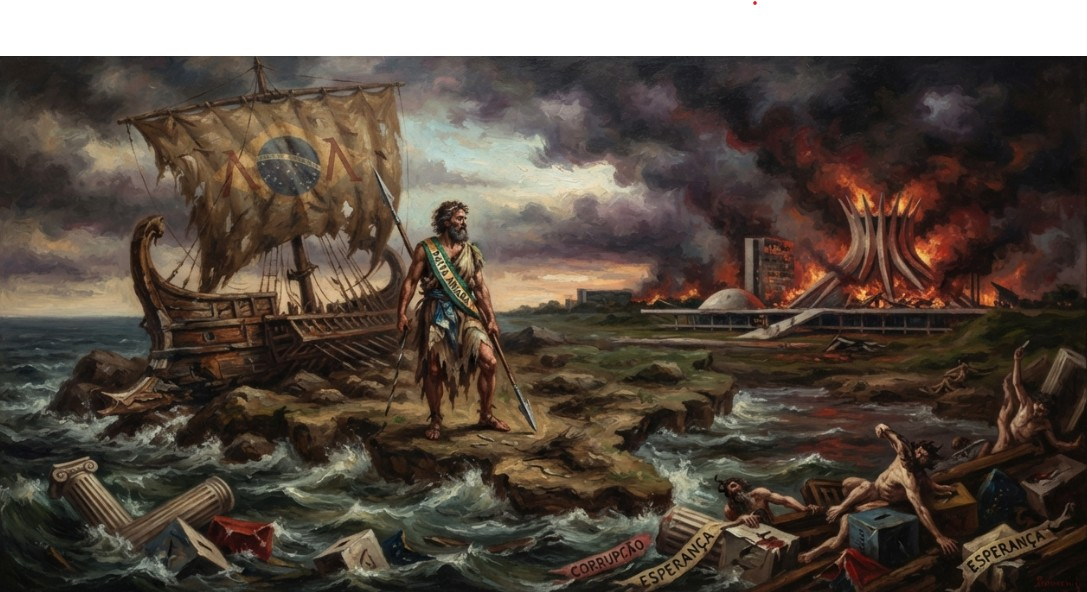
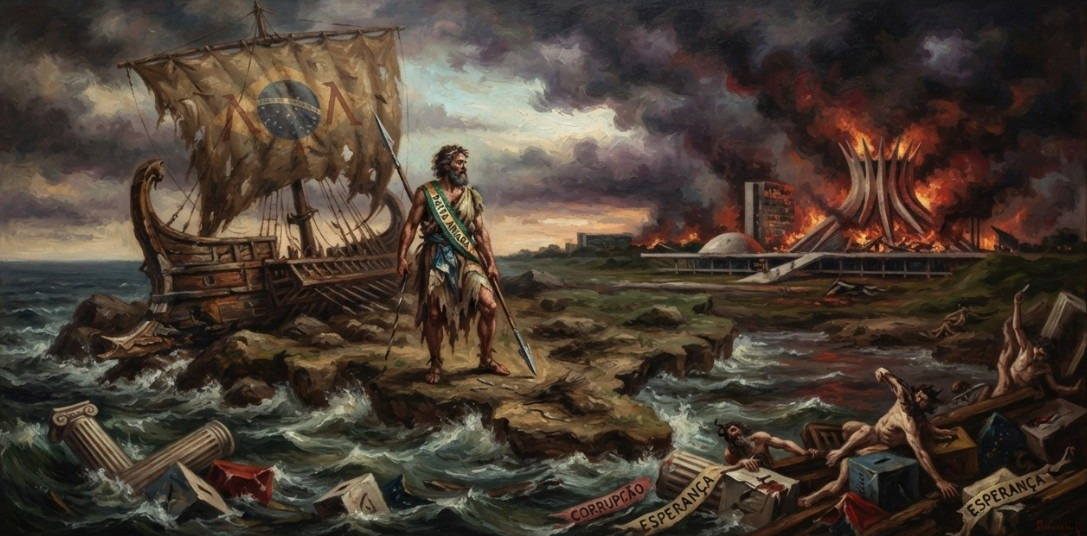
Add files via upload

diff --git a/generate_textos.py b/generate_textos.py
@@ -226,9 +226,10 @@ def gerar_pagina(item: dict) -> str:
     data_fmt = formatar_data(item["data"])
     url_pagina = f"{SITE_URL}/textos/{item['id']}.html"
 
-    imagem_item = item.get("imagem")  # caminho relativo opcional, ex: "/textos/img/arquivo.jpg"
+    imagem_item = item.get("imagem")  # caminho relativo opcional, ex: "/odisseia.jpg"
+    imagem_card_item = item.get("imagem_card")  # versão 1200x630 opcional para preview social
     if imagem_item:
-        imagem_card = f"{SITE_URL}{imagem_item}"
+        imagem_card = f"{SITE_URL}{imagem_card_item}" if imagem_card_item else f"{SITE_URL}{imagem_item}"
         alt_esc = html.escape(item.get("imagem_alt", item["titulo"]))
         imagem_html = f'    <img class="micro-imagem" src="{imagem_item}" alt="{alt_esc}">'
     else:
